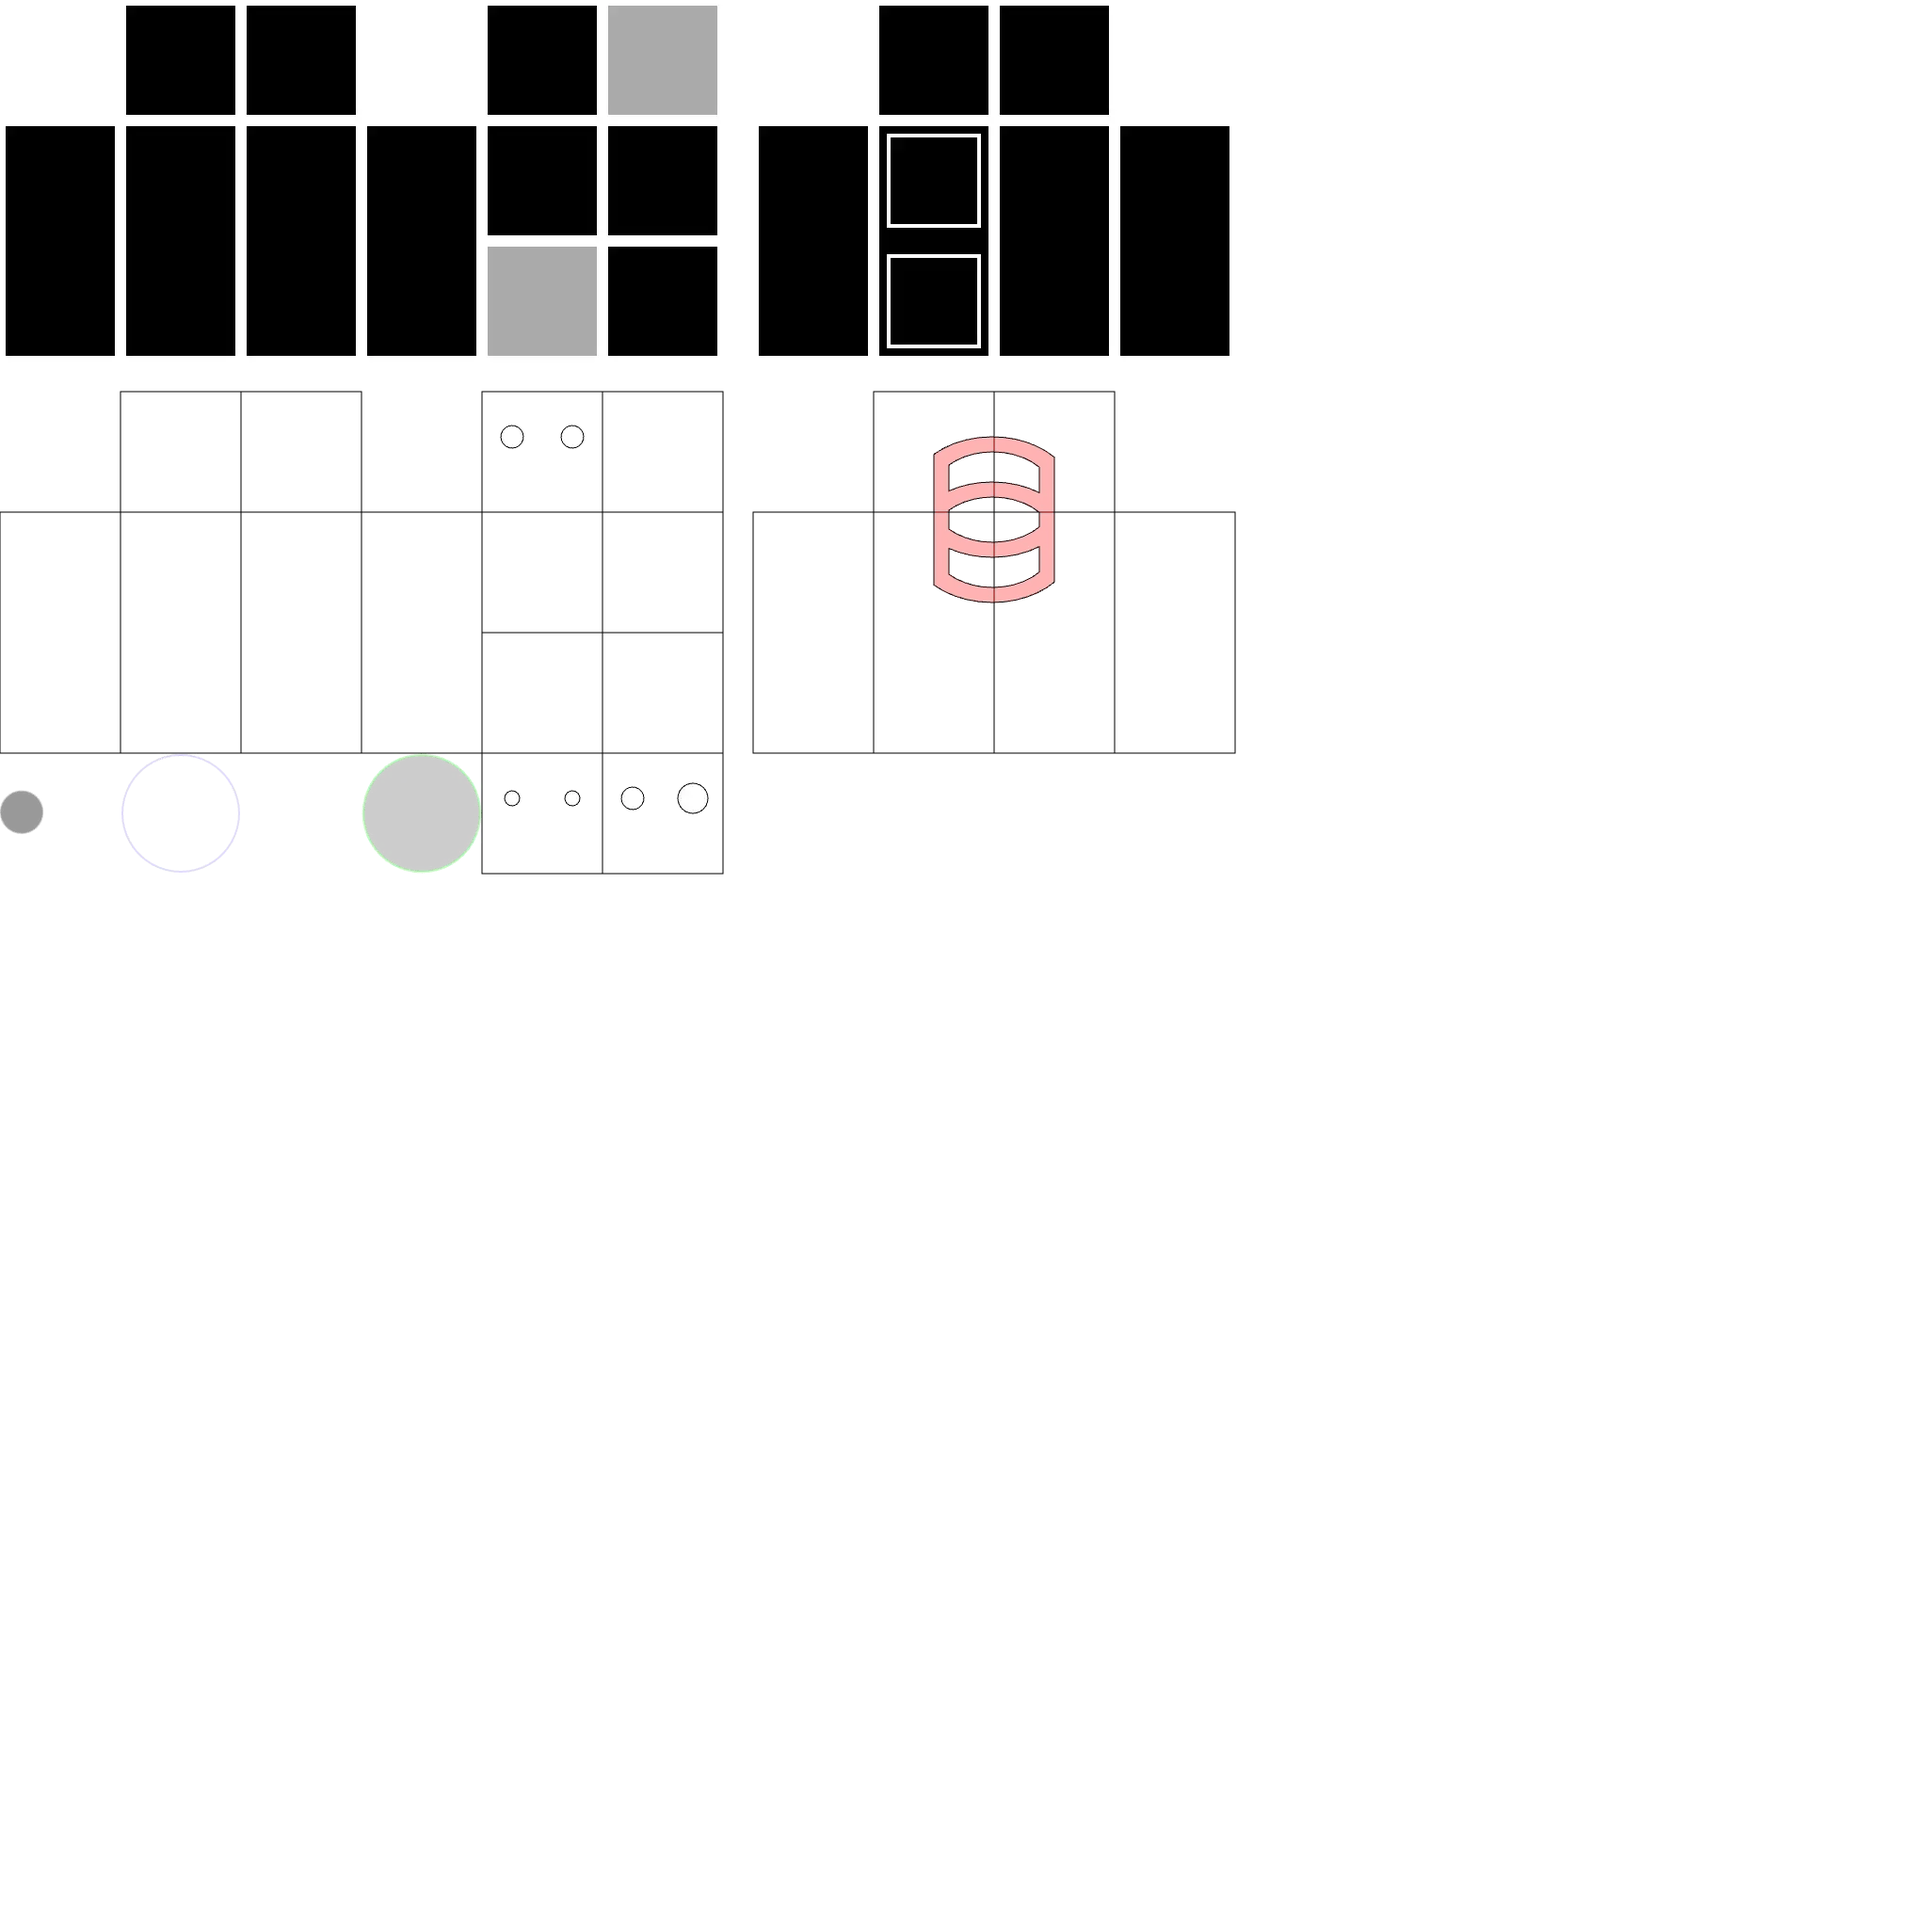
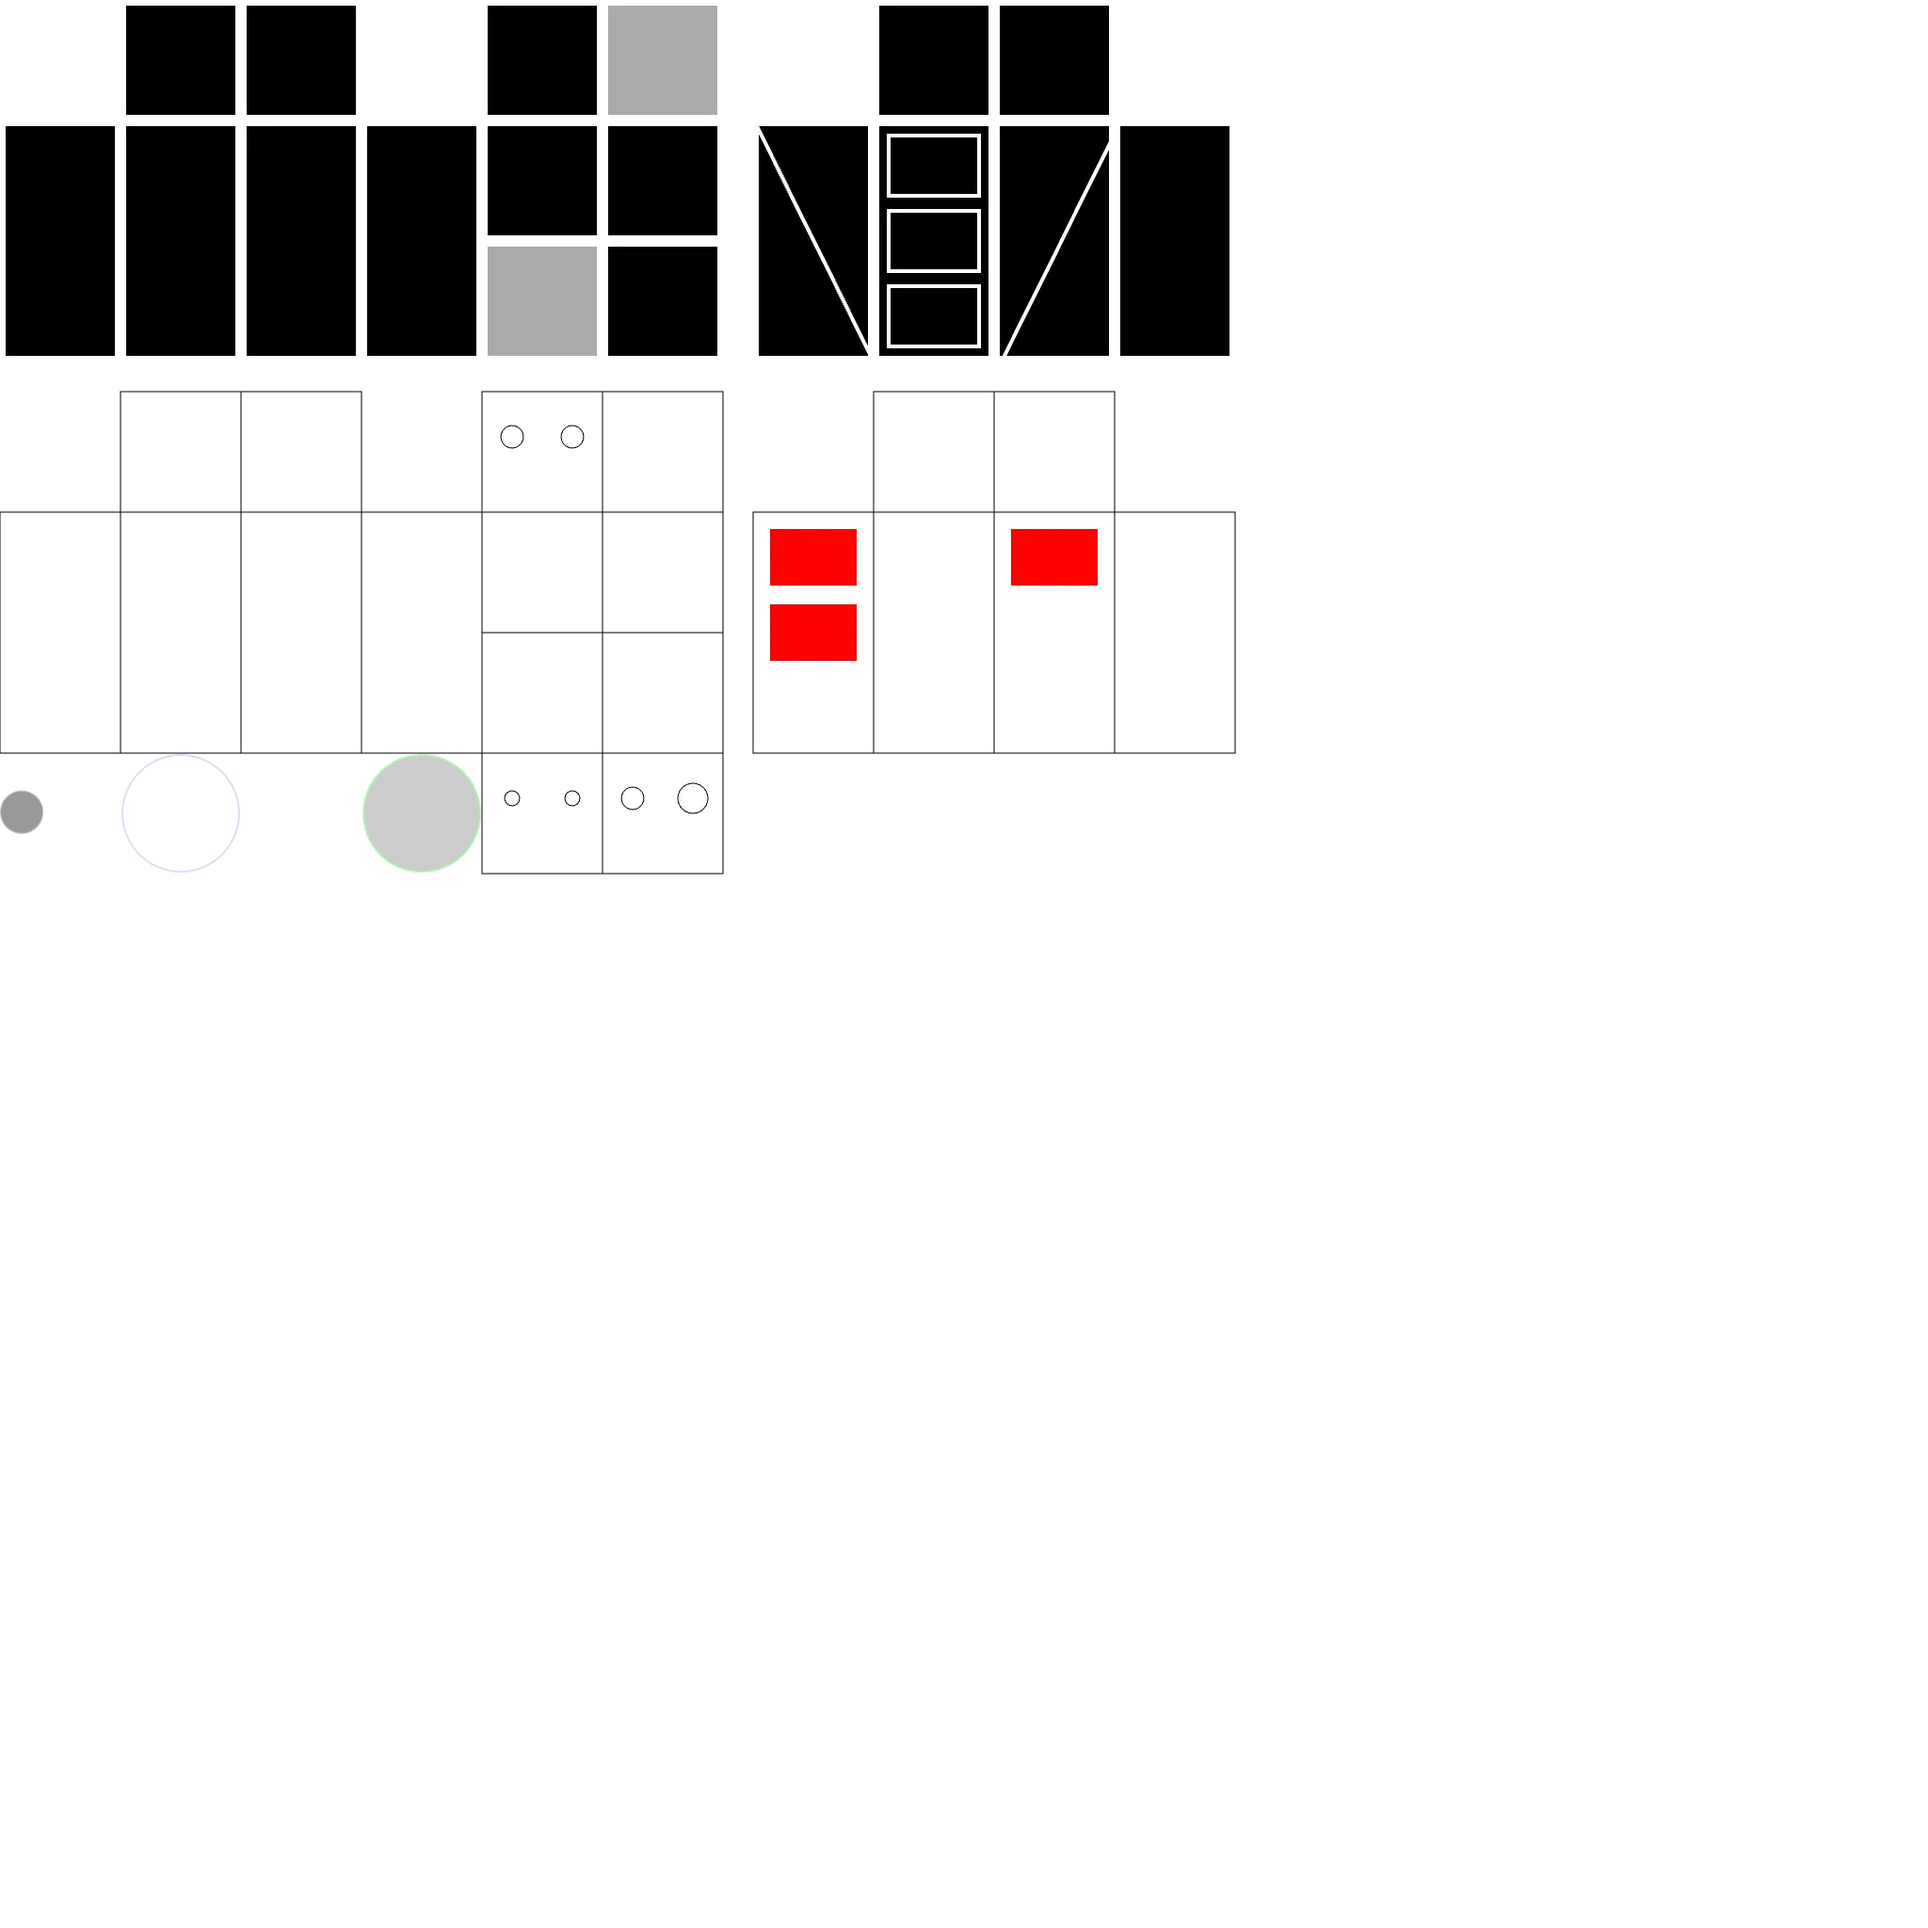
feat: skin delta

Changed region(s): [[0.375, 0.2188, 0.5938, 0.3438], [0.4688, 0.0938, 0.5, 0.1562]]

diff --git a/docs/TODO.md b/docs/TODO.md
@@ -125,11 +125,19 @@
   - ❌ permit prefixes of Key.SkinPart
   - ✅ move hard-coded tint into profile-1
 
-- 🚧 good examples of uv re-mappings in profile-1
+- 🚧 good examples of skin in profile-1
   - ✅ test-body_base-body
   - ✅ test-body-overlay_base-body-overlay
-  - 🚧 grid_base-head
-- 🚧 good examples of tintings in profile-1
+  - support inherited transforms on `<g>`
+  - examples of useful body-overlay
+    - e.g. partially transparent clothing
+  - uv mapping for tapered cuboid?
+    - issue visible when draw diagonals, but maybe ignore
+  - inspiration from minecraft skins
+    - https://namemc.com/minecraft-skins
+  - draw curves around cuboids e.g. to depict vest-line
+  - test-head_base-head
+- 🚧 good examples of tints in profile-1
 
 - ✅ can show/hide/tint selector
 - ✅ can object-pick new npc
@@ -190,9 +198,9 @@
 
 - ✅ migrate `canvas` to `skia-canvas`
   - ℹ https://www.npmjs.com/package/skia-canvas
-- 🚧 skia-canvas issues
-  - fill pattern in human-0.1.tex not working 
-  - composite point light in human-0.0.tex not working 
+- 🚧 skia-canvas issue: fill pattern in human-0.1.tex not working 
+  - https://github.com/samizdatco/skia-canvas/issues/219
+- skia-canvas issue: composite point light in human-0.0.tex not working 
 
 - ✅ HMR of GLTF i.e. GLB
   - ✅ detect glb change and trigger code
